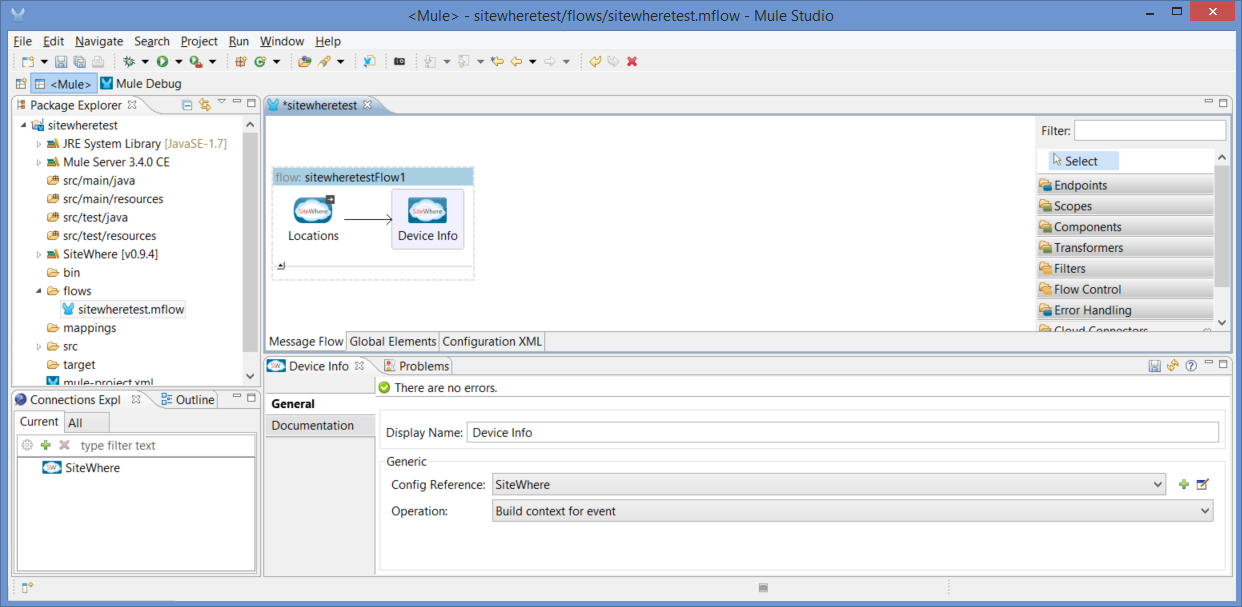
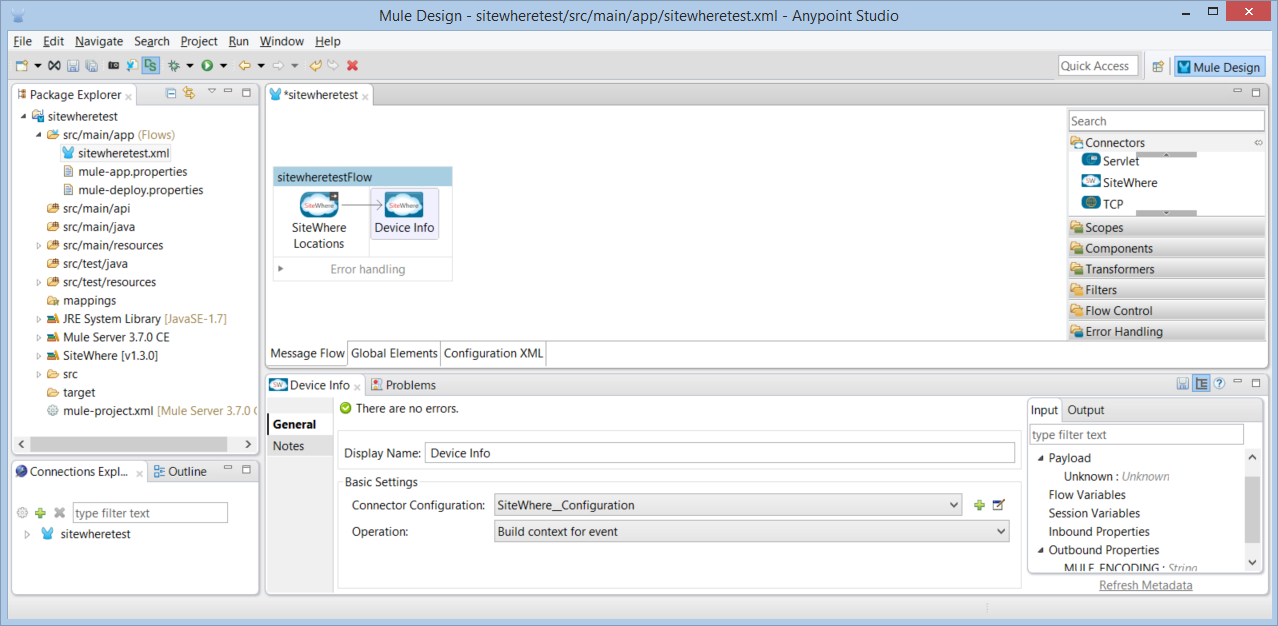
Updated Mule AnyPoint integration example to use the latest AnyPoint Studio, SiteWhere AnyPoint plugin, and admin application for screenshots.

Changed region(s): [[0.0, 0.0, 1.0, 1.0]]

diff --git a/integration/mule.md b/integration/mule.md
@@ -55,7 +55,7 @@ button near the top of the page and enter **SiteWhere Components** in the **Name
 </a>
    
 Click **OK** to add the new software site. Mule Studio will download information from the site and a 
-tree will appear for Mule Modules. Check the top checkbox to download the components. See the image below 
+tree will appear for the available components. Check the top checkbox to download the components. See the image below 
 for an example of what you should see:
 
 <a href="{{ site.url }}/images/integration/mule/sitewhere-plugin.png" data-lightbox="architecture" title="Choose SiteWhere Plugin">
@@ -65,14 +65,14 @@ for an example of what you should see:
 Keep clicking **Next** until you reach the end of the wizard. You will need to agree to the license agreement (CPAL) 
 and will need to ok a message about unsigned content. Click **Finish** to complete the wizard and allow Mule Studio 
 to restart when it asks. When Mule Studio restarts click **Help > About Mule Studio...**, then click 
-**Installation Details**. There should be an entry for **Mule SiteWhere Connector Mule Studio Extension** in the list.
+**Installation Details**. There should be an entry for **SiteWhere Connector (Mule 3.5.0+)** in the list.
 If you see the entry, you are ready to start using SiteWhere with Mule!
 
 ## Install Community Edition Runtime
 Currently, SiteWhere does not work with the Mule EE runtime due to a conflict with the versions of Hazelcast used.
 It's not a problem though, since Studio allows you to download other Mule runtimes to execute against. Choose
-**Help > Install New Software** and use the dropdown near the top to choose **Mule ESB Runtimes for Studio**. 
-After the tree appears, choose an entry for the **Community Runtimes** section as shown below:
+**Help > Install New Software** and use the dropdown near the top to choose **Mule ESB Runtimes for AnyPoint Studio**. 
+After the tree appears, choose an entry for the **AnyPoint Studio Community Runtimes** section as shown below:
 
 <a href="{{ site.url }}/images/integration/mule/community-runtime.png" data-lightbox="architecture" title="Install Community Runtime">
 	<img src="{{ site.url }}/images/integration/mule/community-runtime.png"/>
@@ -93,36 +93,38 @@ the new project). The screen should look like the one below:
 </a>
    
 ### Add a SiteWhere Configuration
-There is a global Mule flow element that controls SiteWhere configuration for a flow. In the flow editor (the large area
+There is a global element that controls SiteWhere configuration for a flow. In the flow editor (the large area
 in the middle of the IDE), click on the **Global Elements** tab and click the **Create** button on the right side. In the
-dialog, open the **Cloud Connectors** node and choose the **SiteWhere** entry, then click **OK**. You should now see
-the SiteWhere settings dialog filled in with the default values. In this tutorial, we are going to assume you are 
-running on a cloud instance of SiteWhere. If you are running on a local instance, you can leave the default values
-and everything should work. If you have not already done so, [start a cloud instance](/cloud/amazon_ec2.html). 
-To point to the cloud instance, update the **SiteWhere API URL** value to **http://sitewhere-aws/sitewhere/api/** and
-the Hazelcast **Remote Address** to **sitewhere-aws:5701**. The values should look like below:
+dialog, open the **Connector Configuration** node and choose the **SiteWhere: Configuration** entry, 
+then click **OK**. You should now see the SiteWhere settings dialog filled in with the default values. 
+In this tutorial, we are going to assume you are running on a local instance of SiteWhere. If you are 
+running on a [cloud instance](/cloud/amazon_ec2.html), update the **Hazelcast Url** to the correct cloud URL. 
+You will also need to enter the Hazelcast username and password based on the group name and password
+set in your **hazelcast.xml** configiration file. The default values are **sitewhere** / **sitewhere**.
+The values should look like below:
 
 <a href="{{ site.url }}/images/integration/mule/sitewhere-config.png" data-lightbox="architecture" title="SiteWhere Configuration">
 	<img src="{{ site.url }}/images/integration/mule/sitewhere-config.png"/>
 </a>
   
-The values in the **REST** section determine how Mule Studio interacts with the SiteWhere REST services. The REST 
-services are used when data is submitted to SiteWhere or when information is needed from SiteWhere on demand. The values
-in the **Hazelcast** section determine how SiteWhere connects to the Hazelcast instance running on your remote server.
-Hazelcast is used for subscription-based actions like the event processing logic we will be using later in the tutorial. 
+Once the settings have been updated, click the **Test Connection...** button at the bottom of the 
+dialog to verify that Studio can connect to SiteWhere. If the connection succeeds, your flow is ready
+to start interacting with SiteWhere data.
   
 ### Create an Event Processing Flow
-Now that we have the SiteWhere configuration out of the way, we just need to add the processing elements to our 
+Now that we have the SiteWhere configuration out of the way, we need to add the processing elements to our 
 flow to get the data we are interested in from SiteWhere. In this example, we want to subscribe to any *location*
 events being processed by SiteWhere. As devices report new location data, that data will be forwarded to Mule 
 after it has been saved to the datastore by SiteWhere.
 
 First, click on the **Message Flow** tab at the bottom of the editor to go back to the visual editor. On the palette at
-the right of the editor, open the **Cloud Connectors** drawer, find SiteWhere in the list, and drag-and-drop it out on
+the right of the editor, open the **Connectors** drawer, find SiteWhere in the list, and drag-and-drop it out on
 to the canvas. A new inbound endpoint will be added. Clicking on the new node should show its details in the properties
-panel at the bottom of the editor. Change the name of the node from **SiteWhere (Streaming)** to **Locations**, then
-open the dropdown for **Config Reference** and choose **SiteWhere** (which is a reference to the configuration we created
-in the last step). Finally, choose **Subscribe locations** from the **Operation** dropdown and save your changes.
+panel at the bottom of the editor. Change the display name of the node from **SiteWhere (Streaming)** 
+to **SiteWhere Locations**, then open the dropdown for **Connector Configuration** and 
+choose **SiteWhere_Configuration** (which is a reference to the configuration we created 
+in the last step). Finally, choose **Subscribe locations** from the **Operation** dropdown 
+and save your changes.
 
 Your flow should now look like the one below:
 
@@ -145,14 +147,14 @@ Now your flow should look like below:
 	<img src="{{ site.url }}/images/integration/mule/add-build-context.png"/>
 </a>
   
-The final step in the process is to print out the *context* that has been created. SiteWhere has the concept of a
-context that holds device events, their device information, and current assignment all in one neat package called
-a **SiteWhereContext**. We can print the context to the Mule Studio log by adding one more node to the flow.
+The final step in the process is to print out the context that has been created. SiteWhere has the concept of a
+conatiner that holds device events, their device information, and current assignment all in one neat package called
+a *SiteWhere context*. We can print the context to the AnyPoint Studio log by adding one more node to the flow.
 From the palette on the right of the editor drag another SiteWhere node out to the right of the **Device Info** node.
 If done correctly, there should now be three nodes connected in series. Click on the new node and look at the 
-properties editor at the bottom. Edit the **Display Name** to be **Print Context** and choose **SiteWhere** as the
-config reference. Finally, change the operation to **Log sitewhere context** and save the flow. It should now 
-look like the one below:
+properties editor at the bottom. Edit the **Display Name** to be **Log Context** and 
+choose **SiteWhere_Configuration** as the connector configuration. Finally, change the operation 
+to **Log sitewhere context** and save the flow. It should now look like the one below:
 
 <a href="{{ site.url }}/images/integration/mule/log-context.png" data-lightbox="architecture" title="Log Event Context">
 	<img src="{{ site.url }}/images/integration/mule/log-context.png"/>
@@ -174,24 +176,15 @@ will look like the one below:
 </a>
   
 ### Test with Sample Data
-Next, we can send some sample data through the system to have it show up in SiteWhere. Normally, the data would
-come from a device connected to SiteWhere, but for the sake of simplicity for this tutorial, we will use emulated
-data. Luckliy, the SiteWhere admin console has a built-in emulator that can send in test data for any registered
-device. So the path of our test data will be:
+Next, we can send some sample data through the system to have it show up in Studio. Normally, the data would
+come from a device connected to SiteWhere, but for the sake of simplicity in this tutorial, we will use emulated
+data. Luckliy, the SiteWhere [administrative application](../userguide/adminui/adminui.html) has a 
+built-in emulator that can send test data to any registered device.
 
-<a href="{{ site.url }}/images/integration/mule/flow-overview.png" data-lightbox="architecture" title="Emulator with Connection">
-	<img src="{{ site.url }}/images/integration/mule/flow-overview.png"/>
-</a>
-  
-As you can see, we are bouncing data from our local desktop, to the cloud, and back via a subscription in Mule.
-
-To send a test message, first log in to the admin console application at URL:
-
-> [http://sitewhere-aws/sitewhere/admin/](http://sitewhere-aws/sitewhere/admin/)
-	
-Click the **Login** button which will open the top-level **Sites** page. Click the *green arrow* at the right of the
-**Construction Site** entry. This will open the detail page for our make-believe contruction site. It will look 
-something like the page below (depending on which release is running in the cloud, the sample data may look different):
+Log in to the administrative application and click on the **Sites** tab. Click the green arrow at the right of the
+**Construction Site 1** entry (assuming you are using the default sample data). This will open the detail page 
+for our make-believe contruction site. It will look something like the page below (depending on which 
+release is running, the sample data may look different):
 
 <a href="{{ site.url }}/images/integration/mule/site-detail.png" data-lightbox="architecture" title="Site Detail Page">
 	<img src="{{ site.url }}/images/integration/mule/site-detail.png"/>
@@ -200,7 +193,7 @@ something like the page below (depending on which release is running in the clou
 Now click the green arrow to the right of the first device assignment in the list, which will open the *View Assignment*
 page. At the top of the page there is an **Emulate Assignment** button. Click the button to open the assignment 
 emulator. By default, the emulator is not connected to SiteWhere. Clicking the **Connect** button above the map will
-establish an MQTT connection from your browser to the MQTT broker running on our SiteWhere instance in the cloud. If
+establish an MQTT connection from your browser to the MQTT broker SiteWhere is using for event input. If
 the connection has been established, the button will turn green and its text will show as **Connected** as shown below:
 
 <a href="{{ site.url }}/images/integration/mule/emulator-connected.png" data-lightbox="architecture" title="Emulator with Connection">
@@ -217,28 +210,27 @@ location information:
 </a>
   
 Click **Create** and a new location should show up on the map (there is a slight delay because the call is async
-and the browser just waits a couple of seconds before refreshing the map). If you swap back from the browser to
+and the browser waits a couple of seconds before refreshing the map). If you swap back from the browser to
 your Mule Studio instance, you should notice new data has shown up in the console (and a lot of it). The data is
-a dump of the SiteWhere context including all device information, the current assignment, asset information, and
-the newly added location. It will look something like the screen below:
+a dump of the SiteWhere context including the current device assignment and the newly added location. 
+It will look something like the screen below:
 
 <a href="{{ site.url }}/images/integration/mule/console-after-add1.png" data-lightbox="architecture" title="Console After Location Added">
 	<img src="{{ site.url }}/images/integration/mule/console-after-add1.png"/>
 </a>
   
 ## Next Steps
-In this tutorial we have installed Mule Studio and the SiteWhere plugin. We created a new Mule project and a flow
+In this tutorial we have installed AnyPoint Studio and the SiteWhere plugin. We created a new Mule project and a flow
 that subscribes to location events that SiteWhere produces. We ran a live instance of the Mule server in Studio
 and, from an emulator in the SiteWhere admin console, created location information. The information was sent
-from your local machine via MQTT to SiteWhere which stored the location (you can look at the locations log to
+from th browser via MQTT to SiteWhere which stored the location (you can look at the locations log to
 verify that it was stored). The location event was then sent via Hazelcast to your Mule flow which subscribed to
-location events. The flow then asked SiteWhere for more event information and printed the complete event context
-out to the Mule log.
+location events. Finally, the flow printed the complete SiteWhere event context to the Mule log.
 
 This is only a simple example of event processing. In the real world, we would be talking to real devices over
-the SiteWhere provisioning engine. From a Mule perspective, the event processing side of things is no different
-for real device data than it was for the emulator. In Mule, we could take the location data and do interesting things
-with it. For instance, the SiteWhere connector contains a node that checks location data against *zones* that 
-you have created in the admin console. Based on whether the location data is inside or outside of a zone, Mule
-can take actions such as alerting or pretty much anything else you can imagine.
+the SiteWhere [communication engine](../userguide/tenant/device-communication.html). From a Mule perspective, 
+the event processing side of things is no differentfor real device data than it was for the emulator. 
+In Mule, we could take the location data and do interesting things with it. For instance, we can take the
+SiteWhere location data and forward it to SalesForce or another cloud provider. Integration with AnyPoint Studio
+opens hundreds of new possibilities for using your SiteWhere data!
 
